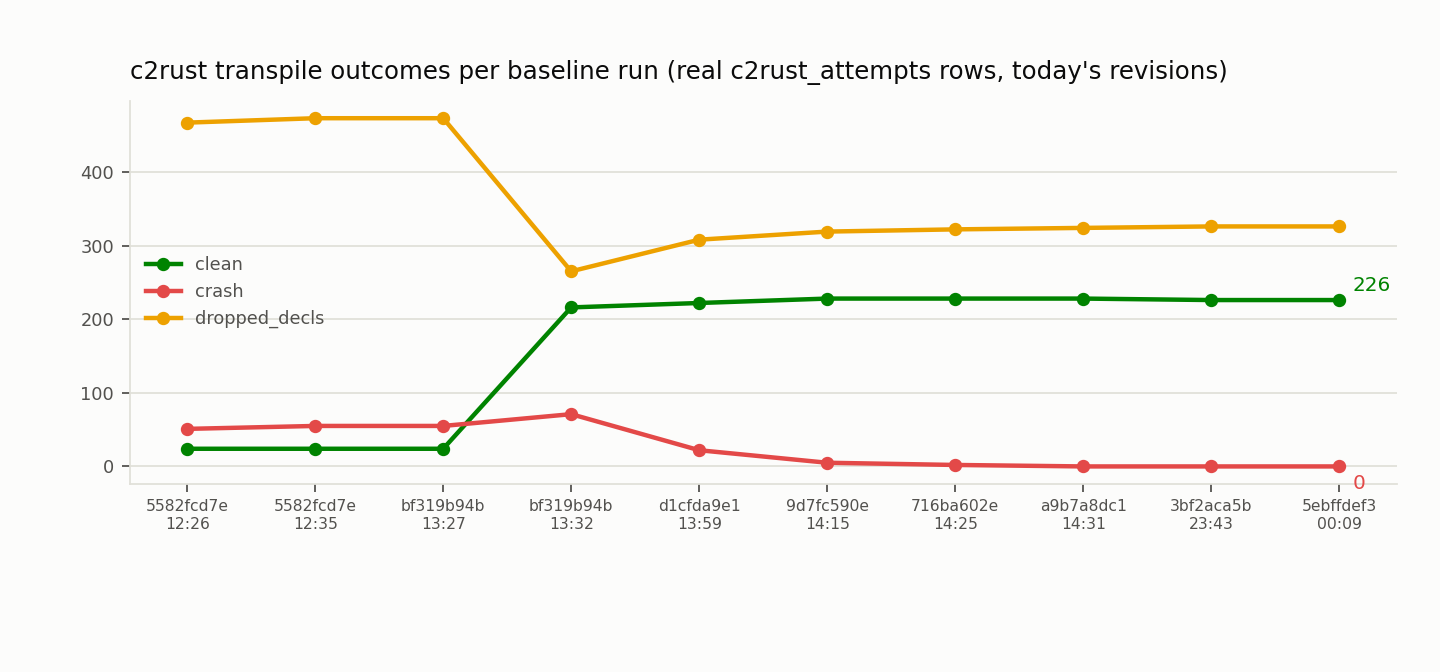
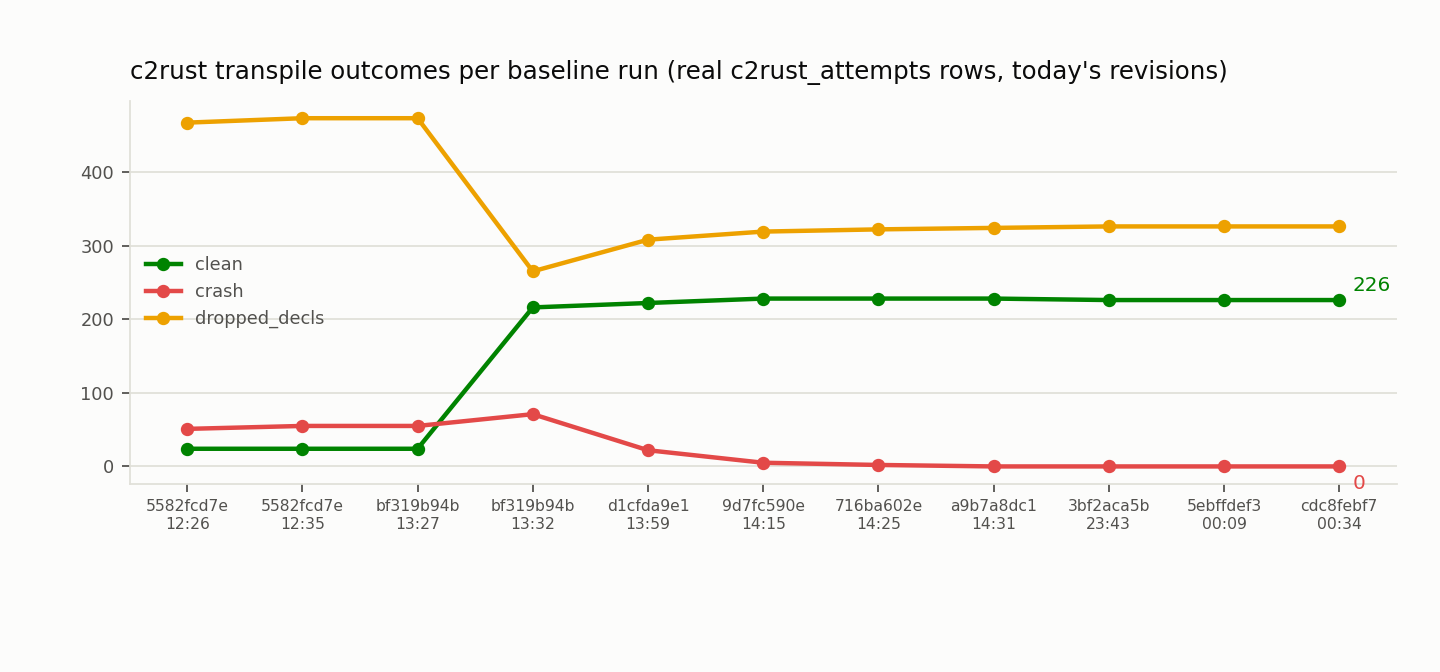
dashboard+tooling: sync to final consolidated state after all agents landed
check_c2rust_output_compiles.py's tracked revision bumped to cdc8febf7
(issue #10's RISC-V asm-constraint fix). Dashboard regenerated with the
merged repo-cleanup work and all today's landed TUs/issues reflected.

diff --git a/docs/status/dashboard.html b/docs/status/dashboard.html
@@ -109,7 +109,7 @@
 <body>
 
 <h1>linux-rs — live status dashboard</h1>
-<p class="subtitle">Generated 2026-07-18T10:31:32+10:00 by <code>scripts/generate_dashboard.py</code> from live queries against
+<p class="subtitle">Generated 2026-07-18T10:40:02+10:00 by <code>scripts/generate_dashboard.py</code> from live queries against
   <code>rulesdb/patterns.db</code>. Complements
   <a href="STATUS.md">docs/STATUS.md</a> (hand-translation TU/KUnit report) — see that page for the
   30-TU landed-translation timeline and KUnit boot results; this page covers the two-track work queue and the
@@ -277,7 +277,7 @@
         <td data-sort-value="open"><span class="state state-open">open</span></td>
         <td data-sort-value="2026-07-17T02:11:51Z">2026-07-17</td>
         <td data-sort-value="">&mdash;</td>
-        <td data-sort-value="0.9303419418634259">0.9</td>
+        <td data-sort-value="0.9362422371527777">0.9</td>
       </tr>
       <tr>
         <td data-sort-value="3">#3</td>
@@ -286,7 +286,7 @@
         <td data-sort-value="open"><span class="state state-open">open</span></td>
         <td data-sort-value="2026-07-17T05:13:00Z">2026-07-17</td>
         <td data-sort-value="">&mdash;</td>
-        <td data-sort-value="0.8045433307523148">0.8</td>
+        <td data-sort-value="0.8104436260416666">0.8</td>
       </tr>
       <tr>
         <td data-sort-value="4">#4</td>
@@ -295,7 +295,7 @@
         <td data-sort-value="open"><span class="state state-open">open</span></td>
         <td data-sort-value="2026-07-17T06:13:07Z">2026-07-17</td>
         <td data-sort-value="">&mdash;</td>
-        <td data-sort-value="0.7627956455671296">0.8</td>
+        <td data-sort-value="0.7686959408564814">0.8</td>
       </tr>
       <tr>
         <td data-sort-value="5">#5</td>
@@ -304,7 +304,7 @@
         <td data-sort-value="open"><span class="state state-open">open</span></td>
         <td data-sort-value="2026-07-17T11:52:02Z">2026-07-17</td>
         <td data-sort-value="">&mdash;</td>
-        <td data-sort-value="0.5274368492708333">0.5</td>
+        <td data-sort-value="0.5333371445601852">0.5</td>
       </tr>
       <tr>
         <td data-sort-value="6">#6</td>
@@ -349,7 +349,7 @@
         <td data-sort-value="open"><span class="state state-open">open</span></td>
         <td data-sort-value="2026-07-17T23:37:35Z">2026-07-17</td>
         <td data-sort-value="">&mdash;</td>
-        <td data-sort-value="0.03747157149305556">0.0</td>
+        <td data-sort-value="0.04337186678240741">0.0</td>
       </tr>
       <tr>
         <td data-sort-value="11">#11</td>
@@ -358,7 +358,7 @@
         <td data-sort-value="open"><span class="state state-open">open</span></td>
         <td data-sort-value="2026-07-17T23:38:17Z">2026-07-17</td>
         <td data-sort-value="">&mdash;</td>
-        <td data-sort-value="0.036985460381944446">0.0</td>
+        <td data-sort-value="0.0428857556712963">0.0</td>
       </tr>
       <tr>
         <td data-sort-value="12">#12</td>
@@ -367,7 +367,7 @@
         <td data-sort-value="open"><span class="state state-open">open</span></td>
         <td data-sort-value="2026-07-17T23:39:40Z">2026-07-17</td>
         <td data-sort-value="">&mdash;</td>
-        <td data-sort-value="0.0360248122337963">0.0</td>
+        <td data-sort-value="0.04192510752314815">0.0</td>
       </tr>
   </tbody>
 </table>
@@ -375,8 +375,8 @@
 
 <h2>Progress over time</h2>
 <p class="subtitle">Real <code>c2rust_attempts</code> outcome counts, grouped by revision and run timestamp
-  &mdash; latest run (rev 5ebffdef3, 2026-07-18T00:09:29): 226 clean / 0 crash / 326 dropped_decls out of 552 files. 10 distinct baseline runs recorded today across
-  8 c2rust revisions.</p>
+  &mdash; latest run (rev cdc8febf7, 2026-07-18T00:34:30): 226 clean / 0 crash / 326 dropped_decls out of 552 files. 11 distinct baseline runs recorded today across
+  9 c2rust revisions.</p>
 <img class="chart" src="dashboard_progress.png" alt="c2rust transpile outcomes per baseline run">
 
 <h2>Token / cost tracking</h2>
@@ -388,12 +388,12 @@
   As a labeled, honest <em>proxy</em> for "how much wall-clock activity work went into this" (not tokens, not
   dollars): the real mtimes of this session's <code>tmp/*.log</code> files, one per script invocation, and the
   real <code>run_at</code> spread already recorded in <code>c2rust_attempts</code>. Today's baseline runs span
-  2026-07-17T12:26:20 to 2026-07-18T00:09:29 UTC
-  (10 runs). 44 script-invocation logs in tmp/, spanning 2 days, 1:22:28.589784 from 2026-07-16T09:09+10:00 to 2026-07-18T10:31+10:00
+  2026-07-17T12:26:20 to 2026-07-18T00:34:30 UTC
+  (11 runs). 46 script-invocation logs in tmp/, spanning 2 days, 1:30:58.373557 from 2026-07-16T09:09+10:00 to 2026-07-18T10:40+10:00
   <div class="proxy-list">
-    run_c2rust_baseline.log &mdash; 2026-07-18T10:13+10:00<br>c2rust-baseline.log &mdash; 2026-07-18T10:13+10:00<br>check_c2rust_output_compiles.log &mdash; 2026-07-18T10:14+10:00<br>c2rust_regression_check.log &mdash; 2026-07-18T10:14+10:00<br>crawl_c2rust_upstream.log &mdash; 2026-07-18T10:15+10:00<br>check_c2rust_rule_conformance.log &mdash; 2026-07-18T10:15+10:00<br>integrate_tu.log &mdash; 2026-07-18T10:28+10:00<br>diff_oracle.log &mdash; 2026-07-18T10:29+10:00<br>dev-build.log &mdash; 2026-07-18T10:29+10:00<br>build_initramfs.log &mdash; 2026-07-18T10:29+10:00<br>qemu-boot.log &mdash; 2026-07-18T10:29+10:00<br>dev-boot.log &mdash; 2026-07-18T10:29+10:00<br>readiness.log &mdash; 2026-07-18T10:30+10:00<br>report.log &mdash; 2026-07-18T10:30+10:00<br>build_db.log &mdash; 2026-07-18T10:30+10:00<br>import_cscope.log &mdash; 2026-07-18T10:31+10:00<br>import_sparse.log &mdash; 2026-07-18T10:31+10:00<br>dev.log &mdash; 2026-07-18T10:31+10:00<br>sync_work_items.log &mdash; 2026-07-18T10:31+10:00<br>generate_dashboard.log &mdash; 2026-07-18T10:31+10:00
+    integrate_tu.log &mdash; 2026-07-18T10:28+10:00<br>diff_oracle.log &mdash; 2026-07-18T10:29+10:00<br>build_db.log &mdash; 2026-07-18T10:30+10:00<br>import_cscope.log &mdash; 2026-07-18T10:31+10:00<br>import_sparse.log &mdash; 2026-07-18T10:31+10:00<br>sync_work_items.log &mdash; 2026-07-18T10:31+10:00<br>dev-build.log &mdash; 2026-07-18T10:33+10:00<br>dev-boot.log &mdash; 2026-07-18T10:33+10:00<br>readiness.log &mdash; 2026-07-18T10:33+10:00<br>report.log &mdash; 2026-07-18T10:33+10:00<br>render_boot_log.log &mdash; 2026-07-18T10:36+10:00<br>run_c2rust_baseline.log &mdash; 2026-07-18T10:38+10:00<br>c2rust-baseline.log &mdash; 2026-07-18T10:38+10:00<br>c2rust_regression_check.log &mdash; 2026-07-18T10:38+10:00<br>dev.log &mdash; 2026-07-18T10:38+10:00<br>qemu-boot.log &mdash; 2026-07-18T10:39+10:00<br>build_initramfs.log &mdash; 2026-07-18T10:39+10:00<br>qemu-boot-verify2.log &mdash; 2026-07-18T10:39+10:00<br>check_c2rust_output_compiles.log &mdash; 2026-07-18T10:40+10:00<br>generate_dashboard.log &mdash; 2026-07-18T10:40+10:00
   </div>
-  <em>(most-recent 20 of 44 log files shown; commit/time-based proxy only, not actual token usage)</em>
+  <em>(most-recent 20 of 46 log files shown; commit/time-based proxy only, not actual token usage)</em>
 </div>
 
 <h2>progress_snapshots (time-series, if &gt;1 row)</h2>

diff --git a/scripts/check_c2rust_output_compiles.py b/scripts/check_c2rust_output_compiles.py
@@ -34,7 +34,7 @@ REPORT = REPO / "tmp" / "c2rust-output-compile-report.md"
 
 TARGET = "riscv64imac-unknown-none-elf"
 PER_FILE_TIMEOUT_S = 60
-C2RUST_REV = "a9b7a8dc1"
+C2RUST_REV = "cdc8febf7"
 C2RUST_SRC = Path("/mnt/2tb/git/github.com/awtoau/c2rust")
 
 HOST_DIR = SUPPORT_DIR / "host"